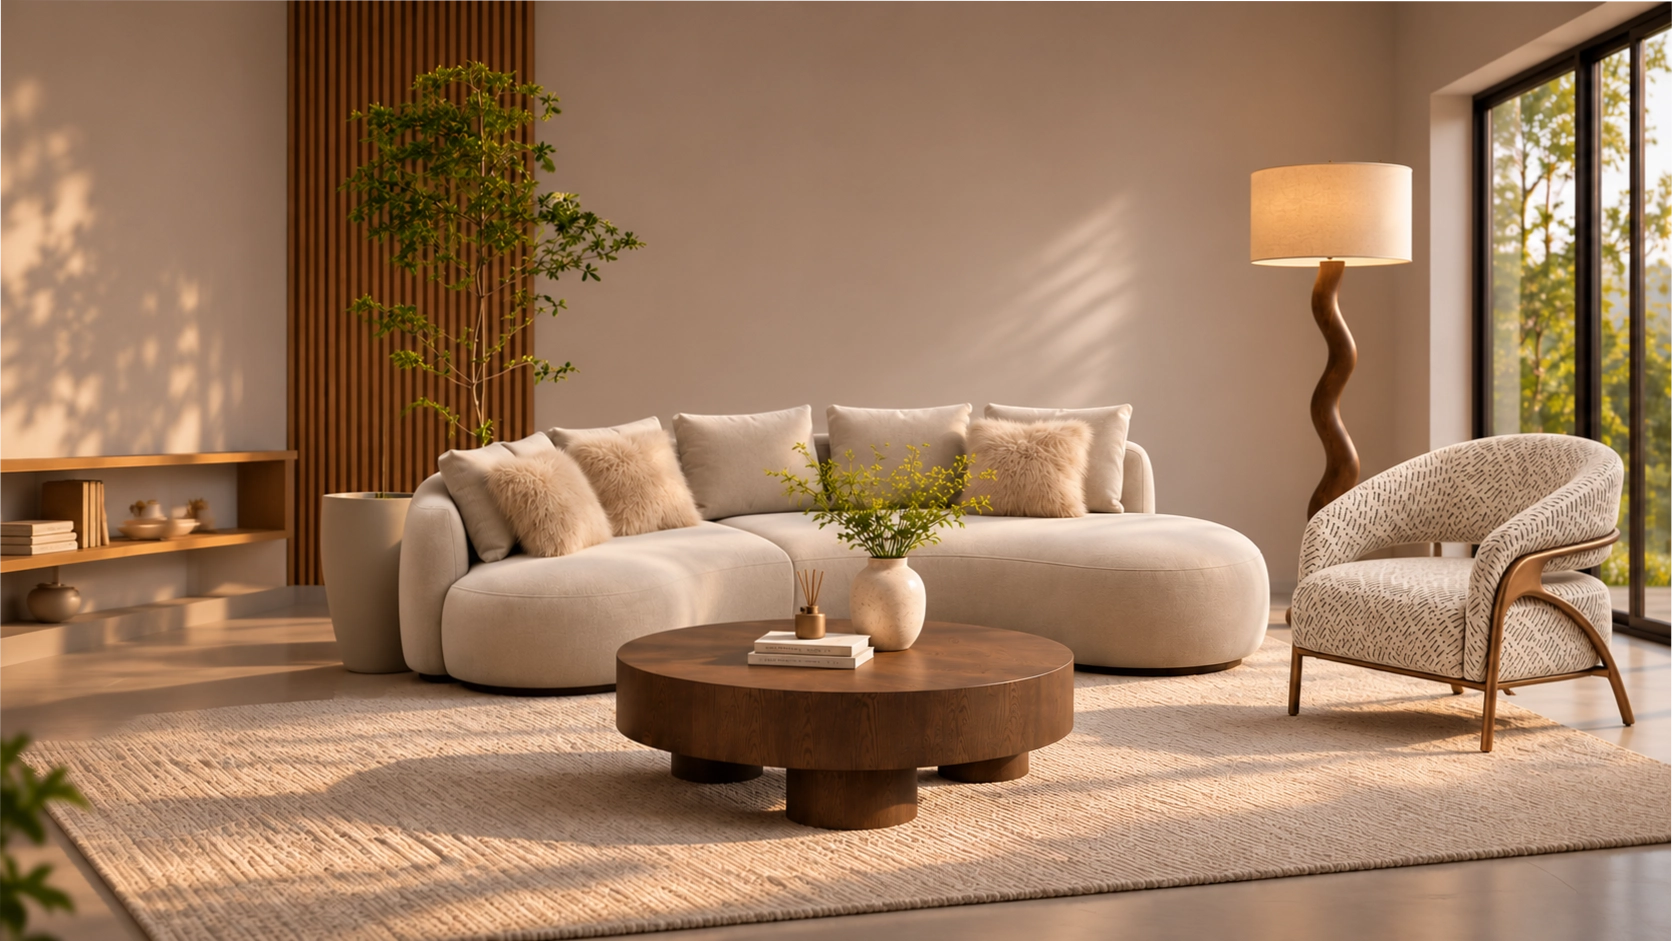
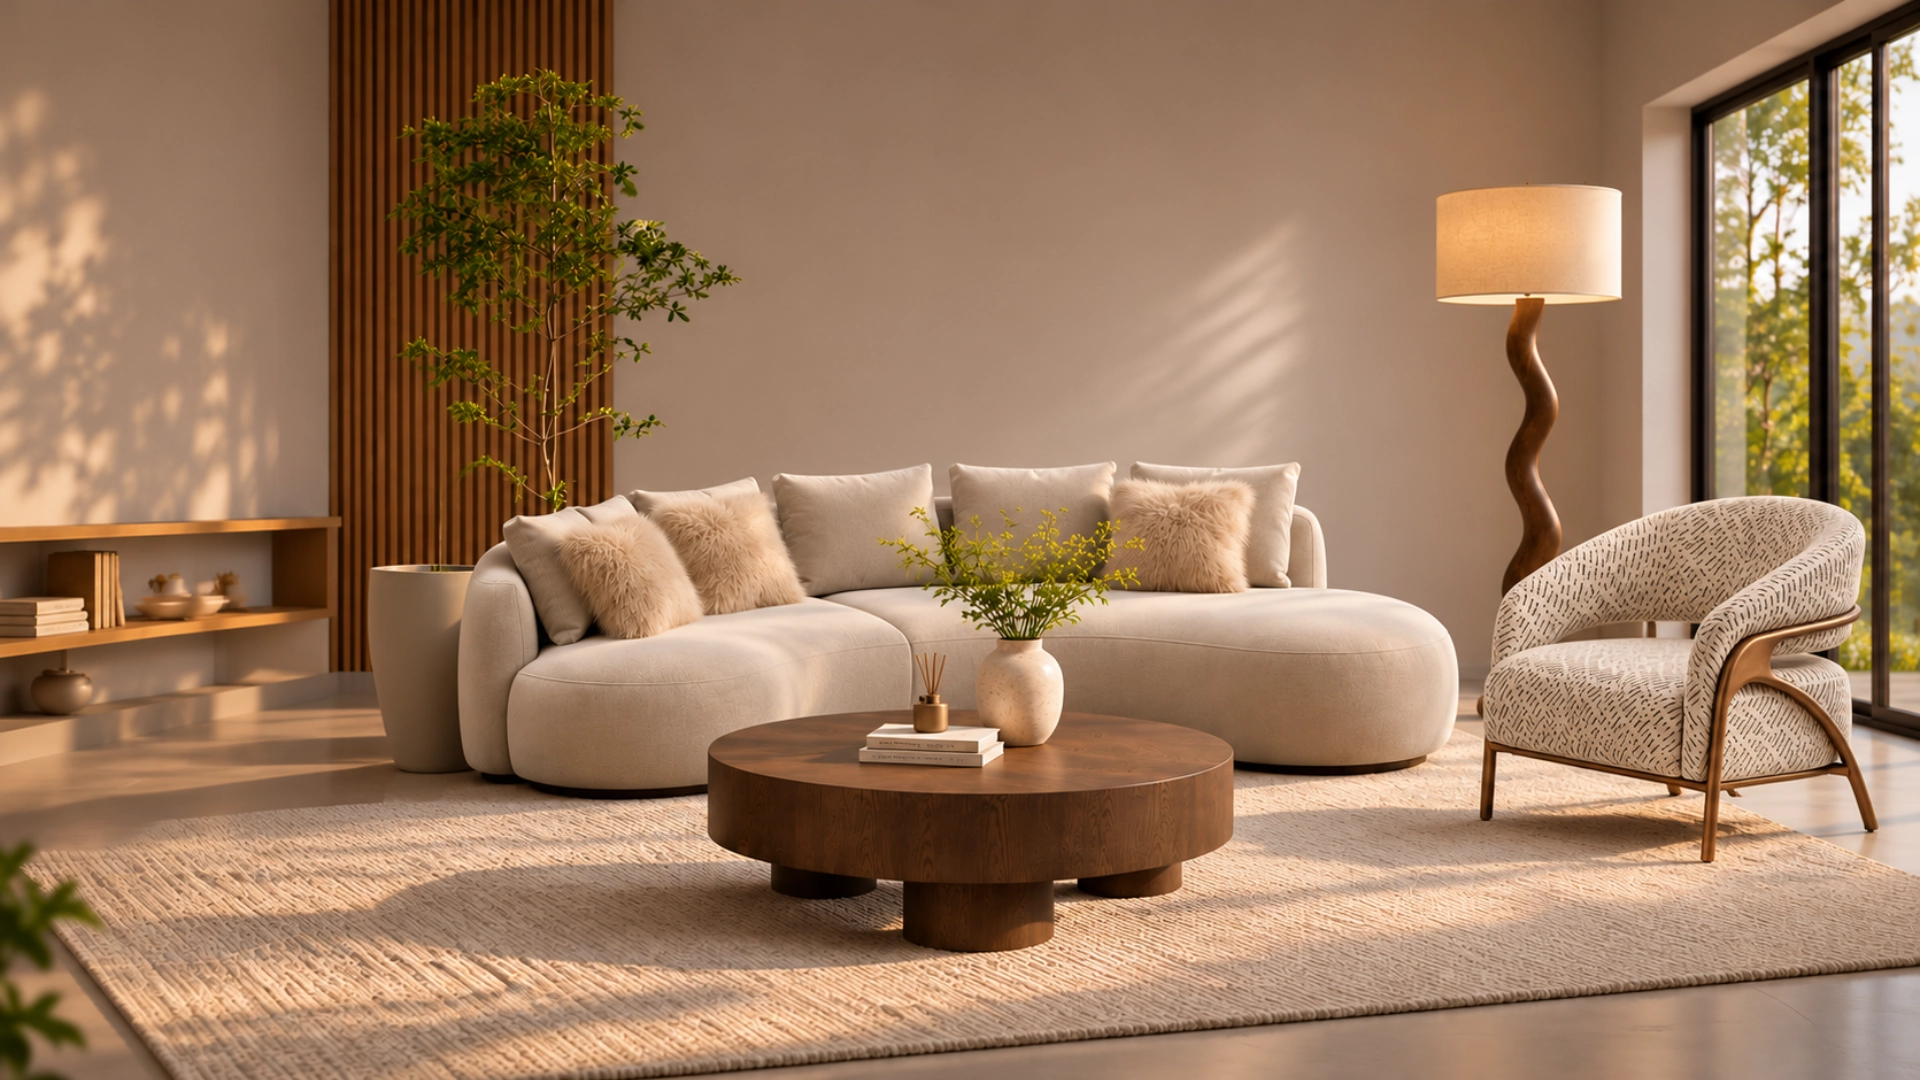
feat(home): style featured collections with image cards

diff --git a/src/components/home/FeaturedCollections.tsx b/src/components/home/FeaturedCollections.tsx
@@ -1,23 +1,55 @@
+import { ArrowRight } from "lucide-react";
+
 import { CollectionCard } from "./CollectionCard";
 
-const collections = ["Sofas", "Chairs", "Tables", "Lighting"] as const;
+const collections = [
+  {
+    title: "Sofas",
+    imageSrc: "/images/collections/sofas.webp",
+    href: "#collections-sofas",
+  },
+  {
+    title: "Chairs",
+    imageSrc: "/images/collections/chairs.webp",
+    href: "#collections-chairs",
+  },
+  {
+    title: "Tables",
+    imageSrc: "/images/collections/tables.webp",
+    href: "#collections-tables",
+  },
+  {
+    title: "Lighting",
+    imageSrc: "/images/collections/lighting.webp",
+    href: "#collections-lighting",
+  },
+] as const;
 
 export function FeaturedCollections() {
   return (
-    <section className="w-full bg-orange-400 px-4 py-8 md:px-8">
+    <section className="w-full bg-background px-4 pb-10 md:px-8 md:pb-14">
       <div className="mx-auto max-w-7xl">
-        <div className="mb-6 flex flex-col gap-3 sm:flex-row sm:items-center sm:justify-between">
-          <div className="bg-orange-600 px-3 py-2 font-heading text-lg font-semibold text-white md:text-xl">
+        <div className="mb-6 flex items-end justify-between gap-4 md:mb-8">
+          <h2 className="font-sans text-2xl font-semibold tracking-tight text-foreground md:text-2xl">
             Featured Collections
-          </div>
-          <div className="bg-orange-600 px-3 py-2 text-sm text-white">
+          </h2>
+          <a
+            href="#collections"
+            className="inline-flex items-center gap-1.5 font-sans text-sm font-medium text-foreground transition-opacity hover:opacity-70"
+          >
             View All Collections
-          </div>
+            <ArrowRight className="size-4" strokeWidth={1.75} aria-hidden />
+          </a>
         </div>
 
-        <div className="grid gap-4 sm:grid-cols-2 lg:grid-cols-4">
-          {collections.map((title) => (
-            <CollectionCard key={title} title={title} />
+        <div className="grid gap-4 sm:grid-cols-2 lg:grid-cols-4 lg:gap-5">
+          {collections.map((collection) => (
+            <CollectionCard
+              key={collection.title}
+              title={collection.title}
+              imageSrc={collection.imageSrc}
+              href={collection.href}
+            />
           ))}
         </div>
       </div>

diff --git a/src/components/home/CollectionCard.tsx b/src/components/home/CollectionCard.tsx
@@ -1,16 +1,35 @@
+import Image from "next/image";
+
 type CollectionCardProps = {
   title: string;
+  imageSrc: string;
+  href?: string;
 };
 
-export function CollectionCard({ title }: CollectionCardProps) {
+export function CollectionCard({
+  title,
+  imageSrc,
+  href = "#",
+}: CollectionCardProps) {
   return (
-    <article className="flex min-h-[200px] flex-col justify-end bg-yellow-300 p-4 md:min-h-[260px]">
-      <div className="mb-auto flex flex-1 items-center justify-center bg-yellow-400 text-xs text-yellow-900">
-        Collection Image Placeholder
-      </div>
-      <div className="mt-3 bg-yellow-500 px-2 py-2 text-sm font-medium text-yellow-950">
+    <a
+      href={href}
+      className="group relative block aspect-[5/4] overflow-hidden rounded-2xl focus-visible:outline-none focus-visible:ring-2 focus-visible:ring-foreground/40 focus-visible:ring-offset-2 focus-visible:ring-offset-background"
+    >
+      <Image
+        src={imageSrc}
+        alt={title}
+        fill
+        sizes="(max-width: 640px) 100vw, (max-width: 1024px) 50vw, 25vw"
+        className="object-cover transition-transform duration-500 ease-out group-hover:scale-[1.03]"
+      />
+      <div
+        aria-hidden
+        className="pointer-events-none absolute inset-x-0 bottom-0 h-1/2 bg-gradient-to-t from-black/45 via-black/15 to-transparent"
+      />
+      <span className="absolute bottom-4 left-4 font-sans text-base font-medium tracking-wide text-white md:bottom-5 md:left-5">
         {title}
-      </div>
-    </article>
+      </span>
+    </a>
   );
 }

diff --git a/src/components/home/Hero.tsx b/src/components/home/Hero.tsx
@@ -30,7 +30,7 @@ export function Hero() {
       <div className="pointer-events-none relative z-10 flex h-full flex-col justify-between px-4 pb-6 pt-24 md:px-8 md:pb-8 md:pt-28">
         <div className="mx-auto grid w-full max-w-7xl items-start gap-4 lg:grid-cols-[minmax(220px,1fr)_minmax(0,2fr)] lg:gap-6">
           <div className="pointer-events-auto flex flex-col justify-start gap-3 self-start pt-2 text-primary-foreground md:pt-4">
-            <p className="font-sans text-xs font-medium uppercase tracking-[0.28em] text-primary-foreground md:text-xs">
+            <p className="font-sans text-xs font-medium uppercase tracking-[0.38em] text-primary-foreground md:text-xs">
               Modern Furniture
             </p>
             <h1 className="font-sans text-2xl font-light uppercase text-primary-foreground sm:text-3xl md:text-6xl">

diff --git a/next.config.ts b/next.config.ts
@@ -4,6 +4,10 @@ const nextConfig: NextConfig = {
   /* config options here */
   cacheComponents: true,
   partialPrefetching: true,
+  images: {
+    // Next 16 defaults to [75] only; other quality props are coerced to 75
+    qualities: [75, 95],
+  },
   turbopack: {
     rules: {
       "*.css": {

diff --git a/src/components/home/HeroImageContainer.tsx b/src/components/home/HeroImageContainer.tsx
@@ -49,6 +49,7 @@ export function HeroImageContainer() {
           priority
           sizes="100vw"
           className="object-fill"
+          quality={75}
           draggable={false}
         />
       </HeroCoverFrame>
